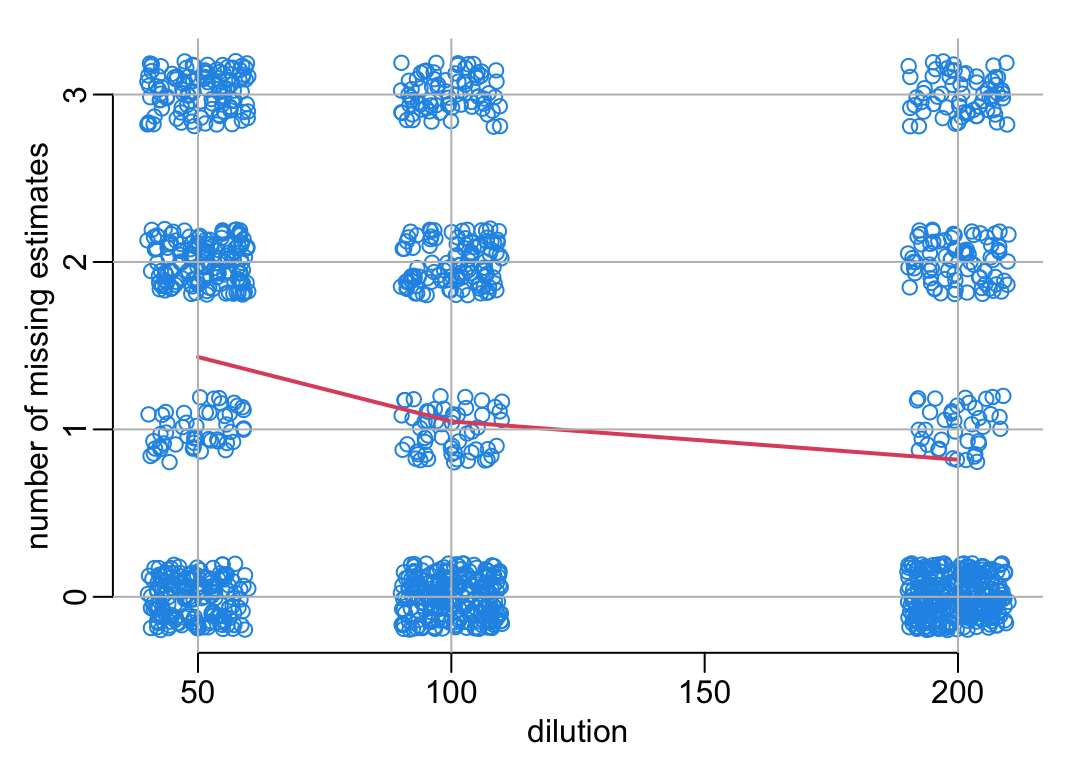
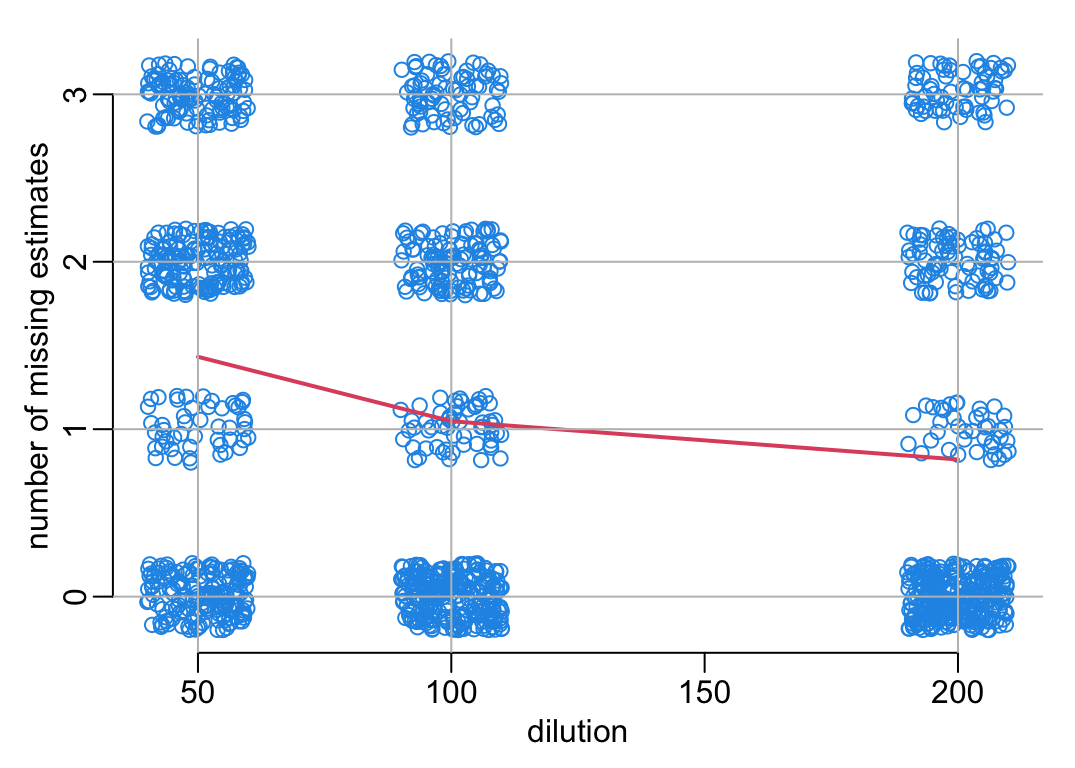
Updating summary on dilutions

diff --git a/analysis.html b/analysis.html
@@ -570,8 +570,8 @@ window.Quarto = {
 </div>
 <p>Out of 481 samples,</p>
 <ul>
-<li>there is 1 sample (0.2 %) for which a dilution of 50 is already too much in order to estimate the lower bound of its 95% confidence interval;</li>
-<li>there are 164 samples (34.0 %) for which a dilution of 200 is not enough in order to do any estimation of the concentration.</li>
+<li>there is 2 sample (0.4 %) for which a dilution of 50 is already too much in order to estimate the lower bound of its 95% confidence interval;</li>
+<li>there are 26 samples (5.4 %) for which a dilution of 200 is not enough in order to do any estimation of the concentration.</li>
 </ul>
 <p>The number of missing estimates (point or any of tbe bounds of the confidence interval) as a function of the dilution:</p>
 <div class="cell" data-layout-align="center">
@@ -673,27 +673,27 @@ window.Quarto = {
 <pre><code># A tibble: 22 × 9
    plate      dilution    od  lower median  upper ci_range thresh0_01 thresh0_10
    &lt;chr&gt;         &lt;int&gt; &lt;dbl&gt;  &lt;dbl&gt;  &lt;dbl&gt;  &lt;dbl&gt;    &lt;dbl&gt; &lt;lgl&gt;      &lt;lgl&gt;     
- 1 Plate_01_…       50 1.74  0.0346 0.0372 0.0399  0.00528 FALSE      TRUE      
- 2 Plate_02_…       50 1.45  0.0274 0.0298 0.0322  0.00484 FALSE      TRUE      
- 3 Plate_03_…       50 2.39  0.0552 0.0588 0.0626  0.00741 FALSE      TRUE      
- 4 Plate_05_…       50 1.84  0.0376 0.0402 0.0431  0.00544 FALSE      TRUE      
- 5 Plate_06_…       50 1.72  0.0343 0.0368 0.0395  0.00525 FALSE      TRUE      
- 6 Plate_07_…      100 1.24  0.0444 0.0490 0.0535  0.00909 FALSE      TRUE      
- 7 Plate_08_…       50 1.27  0.0229 0.0252 0.0275  0.00459 FALSE      TRUE      
- 8 Plate_09_…       50 1.69  0.0334 0.0359 0.0385  0.00519 FALSE      TRUE      
- 9 Plate_10_…       50 1.58  0.0305 0.0329 0.0355  0.00504 FALSE      TRUE      
-10 Plate_11_…       50 1.26  0.0226 0.0249 0.0272  0.00457 FALSE      TRUE      
-11 Plate_12_…       50 0.837 0.0121 0.0142 0.0162  0.00416 FALSE      TRUE      
-12 Plate_13_…       50 0.866 0.0129 0.0150 0.0170  0.00409 FALSE      TRUE      
-13 Plate_14_…       50 1.33  0.0244 0.0267 0.0291  0.00468 FALSE      TRUE      
-14 Plate_15_…       50 0.826 0.0117 0.0139 0.0159  0.00419 FALSE      TRUE      
-15 Plate_16_…       50 0.961 0.0155 0.0175 0.0195  0.00409 FALSE      TRUE      
-16 Plate_17_…       50 1.04  0.0174 0.0195 0.0216  0.00419 FALSE      TRUE      
-17 Plate_18_…       50 1.62  0.0315 0.0341 0.0366  0.00510 FALSE      TRUE      
-18 Plate_19_…       50 1.83  0.0372 0.0398 0.0426  0.00541 FALSE      TRUE      
-19 Plate_20_…       50 1.36  0.0252 0.0275 0.0299  0.00473 FALSE      TRUE      
-20 Plate_21_…       50 1.46  0.0275 0.0299 0.0324  0.00485 FALSE      TRUE      
-21 Plate_22_…       50 0.847 0.0124 0.0145 0.0165  0.00413 FALSE      TRUE      
+ 1 Plate_01_…       50 1.74  0.0346 0.0372 0.0400  0.00535 FALSE      TRUE      
+ 2 Plate_02_…       50 1.45  0.0274 0.0298 0.0323  0.00491 FALSE      TRUE      
+ 3 Plate_03_…       50 2.39  0.0552 0.0588 0.0627  0.00752 FALSE      TRUE      
+ 4 Plate_05_…       50 1.84  0.0376 0.0403 0.0432  0.00557 FALSE      TRUE      
+ 5 Plate_06_…       50 1.72  0.0343 0.0368 0.0396  0.00532 FALSE      TRUE      
+ 6 Plate_07_…      100 1.24  0.0445 0.0490 0.0536  0.00908 FALSE      TRUE      
+ 7 Plate_08_…       50 1.27  0.0229 0.0252 0.0275  0.00460 FALSE      TRUE      
+ 8 Plate_09_…       50 1.69  0.0334 0.0359 0.0386  0.00526 FALSE      TRUE      
+ 9 Plate_10_…       50 1.58  0.0305 0.0329 0.0356  0.00510 FALSE      TRUE      
+10 Plate_11_…       50 1.26  0.0226 0.0249 0.0272  0.00458 FALSE      TRUE      
+11 Plate_12_…       50 0.837 0.0121 0.0142 0.0162  0.00415 FALSE      TRUE      
+12 Plate_13_…       50 0.866 0.0129 0.0150 0.0170  0.00411 FALSE      TRUE      
+13 Plate_14_…       50 1.33  0.0244 0.0267 0.0291  0.00471 FALSE      TRUE      
+14 Plate_15_…       50 0.826 0.0118 0.0139 0.0159  0.00419 FALSE      TRUE      
+15 Plate_16_…       50 0.961 0.0155 0.0175 0.0196  0.00411 FALSE      TRUE      
+16 Plate_17_…       50 1.04  0.0175 0.0195 0.0217  0.00419 FALSE      TRUE      
+17 Plate_18_…       50 1.62  0.0316 0.0340 0.0367  0.00517 FALSE      TRUE      
+18 Plate_19_…       50 1.83  0.0372 0.0399 0.0427  0.00553 FALSE      TRUE      
+19 Plate_20_…       50 1.36  0.0252 0.0275 0.0300  0.00478 FALSE      TRUE      
+20 Plate_21_…       50 1.46  0.0275 0.0299 0.0324  0.00492 FALSE      TRUE      
+21 Plate_22_…       50 0.847 0.0124 0.0144 0.0165  0.00413 FALSE      TRUE      
 22 Plate_23_…       50 1.03  0.0172 0.0193 0.0214  0.00417 FALSE      TRUE      </code></pre>
 </div>
 </div>
@@ -704,9 +704,9 @@ window.Quarto = {
 <pre><code># A tibble: 3 × 9
   plate       dilution    od  lower median  upper ci_range thresh0_01 thresh0_10
   &lt;chr&gt;          &lt;int&gt; &lt;dbl&gt;  &lt;dbl&gt;  &lt;dbl&gt;  &lt;dbl&gt;    &lt;dbl&gt; &lt;lgl&gt;      &lt;lgl&gt;     
-1 Plate_07_h…       50 2.70  0.0687 0.0738 0.0793  0.0106  FALSE      TRUE      
-2 Plate_07_h…      100 1.24  0.0444 0.0490 0.0535  0.00909 FALSE      TRUE      
-3 Plate_07_h…      200 0.702 0.0279 0.0407 0.0498  0.0219  FALSE      TRUE      </code></pre>
+1 Plate_07_h…       50 2.70  0.0688 0.0738 0.0794  0.0105  FALSE      TRUE      
+2 Plate_07_h…      100 1.24  0.0445 0.0490 0.0536  0.00908 FALSE      TRUE      
+3 Plate_07_h…      200 0.702 0.0275 0.0407 0.0497  0.0222  FALSE      TRUE      </code></pre>
 </div>
 </div>
 </section>
